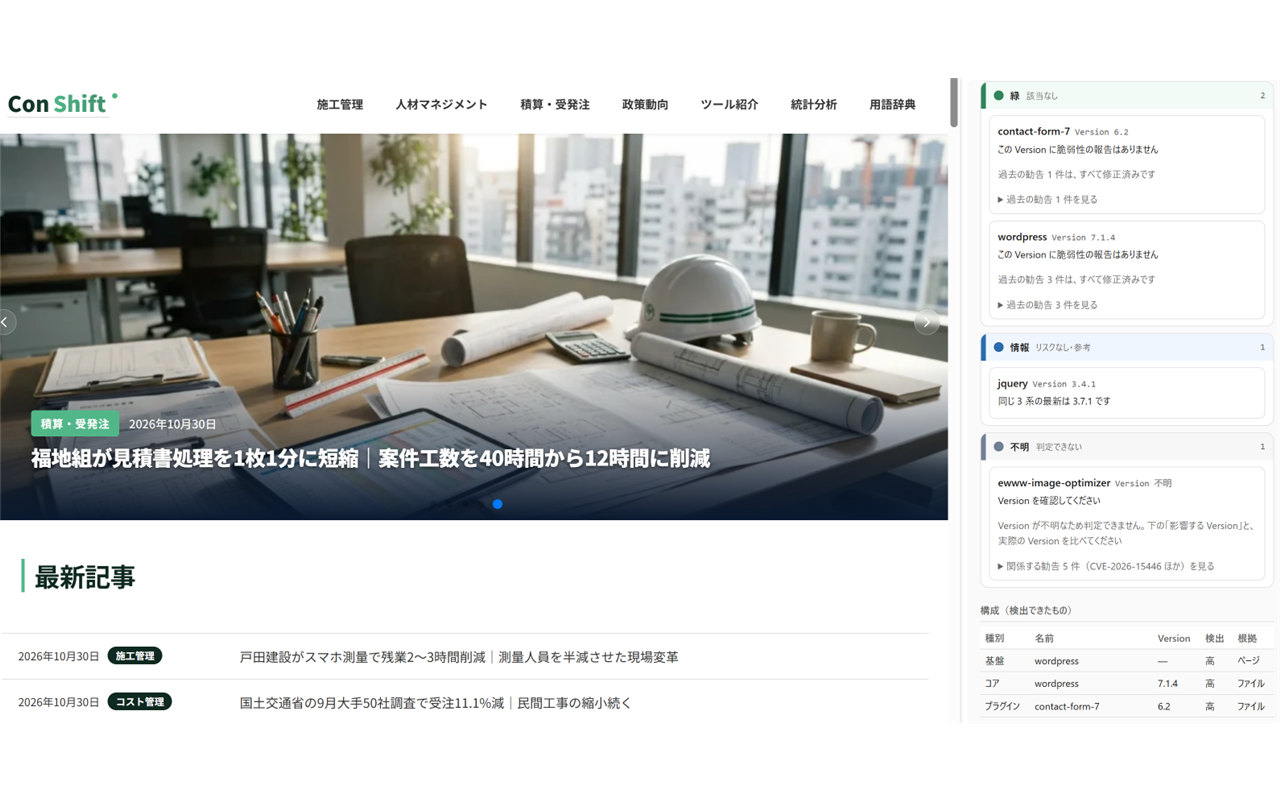
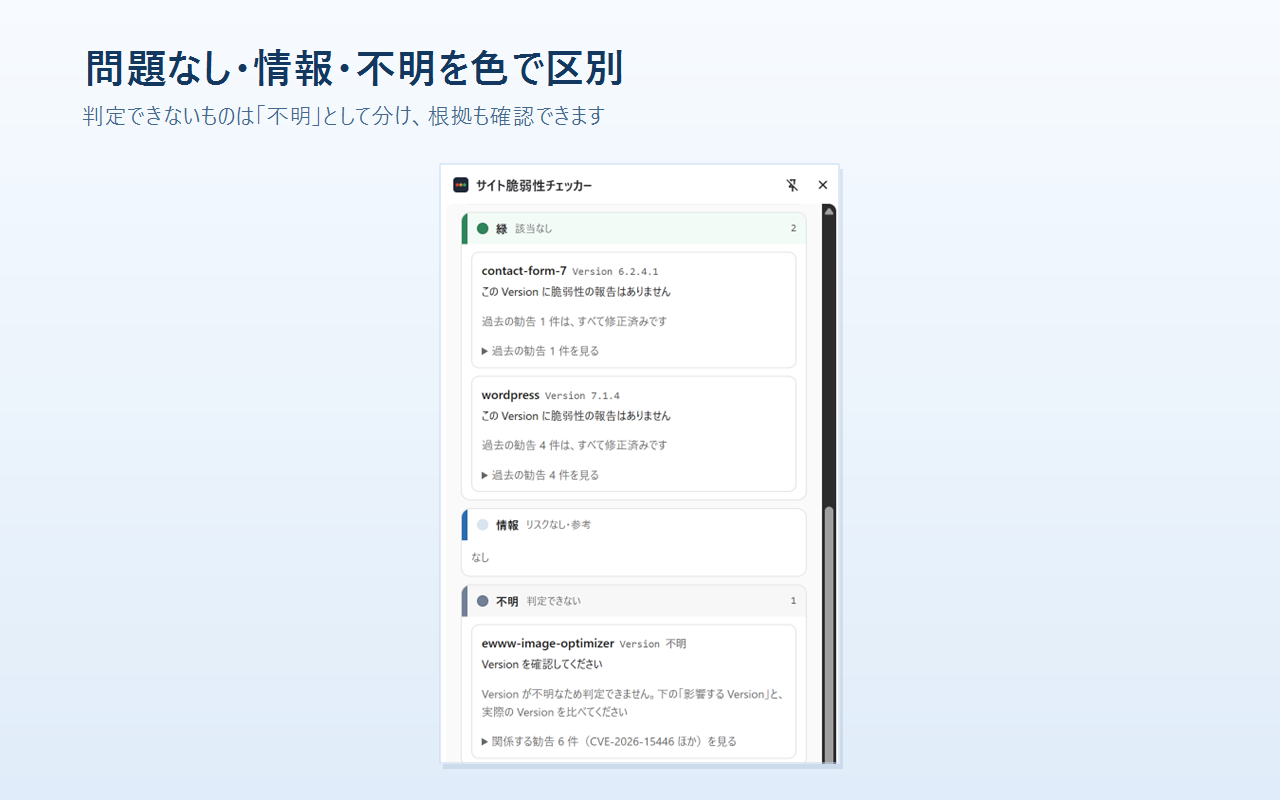
docs: ストア関連のスクリーンショットと説明を更新
- README.md: `advisories.json` と `privacy.html` に関する説明を追加
- listing.md: スクリーンショットの内容を詳細化し、4 枚に増加
- SUBMIT.md: スクリーンショットのファイルパスを更新し、提出手順を明確化
- スクリーンショットの画像を新しい UI に合わせて再生成

diff --git a/store/README.md b/store/README.md
@@ -12,39 +12,56 @@ store/
   source/
     hero-1296x816.jpg   ← プロモ画像の元デザイン（1296×816。ここから 440×280 を作る）
   screenshots/
-    01-red.png                      元画像（1592×797）
+    01-red.png                      旧 UI の素材（1592×797）※使わない
+    02-green-info-gray.png          旧 UI の素材（1590×801）※使わない
+    03-site-health.png              素材（1452×827・サイトヘルス画面）→ 04 の元
+    10-permission-prompt-raw.png    素材（466×225・許可ダイアログ）※ストアでは使わない
+    11-result-red-raw.png           素材（423×432・判定結果 赤）→ 01 の元
+    12-result-green-gray-raw.png    素材（422×633・緑/情報/不明）→ 02 の元
+    13-composition-raw.png          素材（396×405・構成と Version/精度）→ 03 の元
     01-red-1280x800.png             ← ストア提出用（1280×800）
-    02-green-info-gray.png          元画像（1590×801）
     02-green-info-gray-1280x800.png ← ストア提出用（1280×800）
-    03-site-health.png              元画像（1452×827）
-    03-site-health-1280x800.png     ← ストア提出用（1280×800）
+    03-composition-1280x800.png     ← ストア提出用（1280×800）
+    04-sitehealth-1280x800.png      ← ストア提出用（1280×800）
 ```
 
-## スクリーンショット（3 枚）
+## スクリーンショット（4 枚）
 
 | # | 画像 | 内容 | 状態 |
 | --- | --- | --- | --- |
-| 1 | ![赤・黄](screenshots/01-red-1280x800.png) | 赤・黄（PHP 8.1.27 → 赤、黄は 0 件） | ✅ 提出可 |
-| 2 | ![緑・情報・不明](screenshots/02-green-info-gray-1280x800.png) | 緑（該当なし 2 件）・情報（jQuery）・不明（Version 不明のプラグイン） | ✅ 提出可（現在の UI で撮り直し済み） |
-| 3 | ![サイトヘルス](screenshots/03-site-health-1280x800.png) | サイトヘルスの「情報」タブ＋構成表 | ⚠ 判定結果（5 色）が写っていない。パネルを上にスクロールして撮る |
+| 1 | ![赤](screenshots/01-red-1280x800.png) | 判定結果の赤（php 8.1.1・サポート終了・攻撃実績あり） | ✅ 提出可（1.0.1 の UI） |
+| 2 | ![緑・情報・不明](screenshots/02-green-info-gray-1280x800.png) | 緑（該当なし）・情報・不明（Version 不明） | ✅ 提出可（1.0.1 の UI） |
+| 3 | ![構成](screenshots/03-composition-1280x800.png) | 構成表（Version・精度・根拠） | ✅ 提出可（1.0.1 の UI） |
+| 4 | ![サイトヘルス](screenshots/04-sitehealth-1280x800.png) | サイトヘルス「情報」タブ（**管理している WordPress のみ**） | ✅ 提出可（1.0.1 の UI） |
 
-- **サイズ**: 1280×800 または 640×400（この 2 つ以外は受け付けられません）。
-  元画像は仕様外だったため、**1280×800 に収まるよう縮小＋白余白で中央配置**した `*-1280x800.png` を作成済み（拡大はしていません）
-- **形式**: PNG（24-bit、アルファ無し）または JPEG。**1 枚目がストア一覧のサムネイル**になります
-- **被写体**: 自分のサイトか `example.com` 系の検証用サイト。**第三者の実サイト名は写さない**
-  （`02` は「Con Shift」のページ、`03` は WordPress の管理画面が写っています。**自分のサイトであること**を確認してください）
-- 新しい画像を入れたら、同じ手順で `*-1280x800.png` を作り直してください:
+- **サイズ**: 1280×800 または 640×400（この 2 つ以外は受け付けられません）。最大 5 枚・**1 枚目が一覧のサムネイル**
+- **形式**: PNG（24-bit、アルファ無し）または JPEG
+- **作り方**: 素材（`*-raw.png`）を `store/screenshots/` に置いて、スライド化はスクリプトに任せます
+
   ```powershell
-  Add-Type -AssemblyName System.Drawing
-  $img = [System.Drawing.Image]::FromFile("store\screenshots\01-red.png")
-  $scale = [Math]::Min(1280 / $img.Width, 800 / $img.Height)
-  $w = [int][Math]::Round($img.Width * $scale); $h = [int][Math]::Round($img.Height * $scale)
-  $bmp = New-Object System.Drawing.Bitmap 1280, 800
-  $g = [System.Drawing.Graphics]::FromImage($bmp)
-  $g.Clear([System.Drawing.Color]::White)
-  $g.DrawImage($img, [int]((1280 - $w) / 2), [int]((800 - $h) / 2), $w, $h)
-  $bmp.Save("store\screenshots\01-red-1280x800.png", [System.Drawing.Imaging.ImageFormat]::Png)
+  pwsh -File tools/make_store_screenshots.ps1
   ```
+
+  「淡いブルーの背景＋見出し＋パネル」の **1280×800 スライド**を作ります。パネルは縦横比を保って
+  **最大 1.6 倍**まで拡大（それ以上は文字がぼやける）。見出しの文言はスクリプト内の `$slides` で変えられます
+- **素材の対応**
+
+  | 出力 | 素材 | 中身 |
+  | --- | --- | --- |
+  | `01-red-1280x800.png` | `11-result-red-raw.png`（423×432） | 判定結果・赤 |
+  | `02-green-info-gray-1280x800.png` | `12-result-green-gray-raw.png`（422×633） | 判定結果・緑/情報/不明 |
+  | `03-composition-1280x800.png` | `13-composition-raw.png`（396×405） | 構成（Version・精度・根拠） |
+  | `04-sitehealth-1280x800.png` | `03-site-health.png` の左 1020px（1452×827） | サイトヘルス「情報」タブ |
+
+- **被写体**: 自分のサイト（`logishift.net`）で撮ったもの。**第三者の実サイトは写さない**
+- **04 の文言**: サイトヘルスの読み取りは **自分が管理する WordPress でしか使えない**（第三者のサイトでは
+  管理画面を開けないため不可）。「自動入力」ではなく「**管理者なら構成・Version を取得できる**」と書く
+- **`10-permission-prompt-raw.png` は使わない**（`logishift.net` への追加許可を求めるダイアログ。動作としては
+  正常だが、ストアでは「なぜそのドメインへの許可を求めるのか」と質問されやすい）
+- **旧 UI なので使わない素材**（撮影時点では最新ビルド。その後の変更で表示が変わった）
+  - `01-red.png`（10/31 13:05 撮影）: バージョン入力が**開いた状態**で、ラベルも「バージョンを入力（任意）」。
+    現行は `<details>` で既定は閉、ラベルは「バージョンを入力（任意・開発者向け）」（`cbddb28` 10/31 16:11）
+  - `02-green-info-gray.png`（10/31 14:52 撮影）: 構成表の列が **`検出`**。現行は **`精度`**（`673a78e` 11/01）
 
 
 ## プロモ画像・アイコン（作り直すとき）
@@ -73,15 +90,15 @@ pwsh -File tools/make_promo_from_source.ps1
 2. 対象のページを開く → ツールバーのアイコン → サイドパネルを開く
 3. 赤を出したい場合は、**実際に古い PHP／古いプラグインを使っている検証環境**（Local など）で撮る。
    手入力の欄は既定で畳んであるので、**開いた状態を写さない**（写すなら「開発者向けの機能」として説明できる形で）
-4. **ウィンドウ全体**を撮る（`Win + Shift + S`）。サイドパネルだけを撮って拡大すると粗くなるため、全体を撮って余白を整える
-5. 画像編集で 1280×800（または 640×400）に整える。**拡大はしない**（ぼやけます）。余白を足すのは可
-6. `store/screenshots/01-red.png` などに保存する
+4. サイドパネルの**パネル部分だけ**を切り抜く（`Win + Shift + S` の矩形選択）
+5. `store/screenshots/NN-xxx-raw.png` に保存 → `pwsh -File tools/make_store_screenshots.ps1`
+   （スライド化はスクリプトが行う。素材が小さいと拡大でぼやけるので、**幅 400px 以上**で撮る）
 
 ## 提出先（Chrome ウェブストア管理画面）
 
 | 項目 | 場所 | 使うファイル・値 |
 | --- | --- | --- |
-| スクリーンショット | 「ストア掲載情報」→ スクリーンショット | `store/screenshots/01〜03-1280x800.png`（1〜5 枚） |
+| スクリーンショット | 「ストア掲載情報」→ スクリーンショット | `store/screenshots/01〜04-1280x800.png`（4 枚・最大 5 枚） |
 | ストアアイコン | 同上（128×128） | `store/icon-128x128.png` |
 | 小さいプロモ画像 | 同上（440×280） | `store/promo-440x280.png`（一覧・カテゴリ枠で使われる） |
 | マーキー画像（任意） | 同上（1400×560） | 未作成（横長で別途デザインが必要） |

diff --git a/store/SUBMIT.md b/store/SUBMIT.md
@@ -48,7 +48,7 @@ Compress-Archive -Path "$stage\*" -DestinationPath svc-1.0.0.zip -Force
 | カテゴリ | 開発者ツール |
 | 言語 | 日本語 |
 | ストアアイコン（128×128） | `store/icon-128x128.png` |
-| スクリーンショット（1〜5 枚） | `store/screenshots/01-red-1280x800.png` ほか 2 枚 |
+| スクリーンショット（1〜5 枚） | `store/screenshots/01〜04-1280x800.png`（4 枚・1 枚目がサムネイル） |
 | 小さいプロモ画像（440×280） | `store/promo-440x280.png` |
 | マーキー画像（1400×560・任意） | 未作成（横長で別途デザインが必要） |
 | ホームページ URL（任意） | `https://github.com/AkiraMatsumoto-github/site-vuln-checker` |
@@ -170,3 +170,60 @@ WordPress or Automattic.
 | 問い合わせ | GitHub Issues に **3 営業日以内**の初回応答 |
 | 誤検知の報告 | 索引の元データ（NVD / OSV）を確認し、必要なら取り込み側で除外 |
 | プライバシーポリシー | 変更したら `docs/privacy.html` を更新（Pages へは publish-index が配信） |
+
+### 既知の表示：「セーフ ブラウジング保護強化機能で信頼されていません」
+
+`chrome://extensions` に「この拡張機能は、セーフ ブラウジング保護強化機能で信頼されていません」と出ることがある。
+**壊れている・危険という意味ではなく**、Google の信頼リストに入っていないという表示。
+
+| 状況 | 消し方 |
+| --- | --- |
+| デベロッパーモードで読み込んだ（unpacked） | **必ず出る**。ストア版に切り替えるか、設定 →「プライバシーとセキュリティ」→「セキュリティ」→ **標準保護機能**に下げる |
+| ストアからインストール（1.0.1 は 2026-11-03 公開） | 開発者側で消す操作はない。Google が基準（ストア掲載・開発者の検証・違反履歴なし・利用実績など）で判定し、満たすと外れる。**時期は非公開** |
+
+- 効くのは「違反ゼロのまま更新を続ける」「プライバシー申告と実装を一致させる」「権限を増やさない」の積み上げだけ。
+  マニフェストやコードの変更で消せるものではない
+- 個別の解除申請フォームはない（Chrome ウェブストアの One Stop Support で相談は可能）
+- 警告が出るのは **保護強化機能を ON にしている人だけ**（標準保護機能のユーザーには出ない）
+
+---
+
+## 9. 更新（1.0.1）
+
+公開済み（1.0.0）から更新するときの手順。**パッケージの差し替え＋審査依頼**が必要。
+
+### 1) ZIP を作る
+
+```powershell
+$stage = Join-Path $env:TEMP "svc-stage-101"
+Remove-Item $stage -Recurse -Force -ErrorAction SilentlyContinue
+New-Item -ItemType Directory -Path $stage | Out-Null
+Copy-Item extension\* $stage -Recurse
+Remove-Item "$stage\tests", "$stage\README.md" -Recurse -Force
+Compress-Archive -Path "$stage\*" -DestinationPath svc-1.0.1.zip -Force
+```
+
+- [ ] `extension/manifest.json` の `version` が **1.0.1**
+- [ ] ZIP の直下に `manifest.json`／`tests` と `README.md` を含まない
+- [ ] 約 45 KB・14 ファイル（JS 9・CSS 1・HTML 1・アイコン 4）
+
+### 2) アップロードして審査依頼
+
+- [ ] 管理画面 → アイテム → **「パッケージ」タブ** → 新しい ZIP をアップロード
+- [ ] 「What's new」に下の文案を貼る
+- [ ] **「審査のために送信」**
+- [ ] 掲載情報（プロモ画像など）も同時に変えるなら、このタイミングで保存しておく
+
+### 2-2) ストア掲載情報を差し替える（スクリーンショット）
+
+- [ ] 「ストア掲載情報」→ スクリーンショットに `store/screenshots/01〜04-1280x800.png` の **4 枚**を順番にアップ（1.0.1 の UI。`tools/make_store_screenshots.ps1` で再生成できる）
+- [ ] 既存の 3 枚（旧 UI・`検出` 列）は**削除**する
+- [ ] 小さいプロモ画像（440×280）を `store/promo-440x280.png` に差し替え
+- [ ] 保存 → パッケージと同時に審査へ（掲載情報だけの変更でも審査の対象になる）
+
+### 3) What's new（文案）
+
+```
+・構成表の「検出」を「精度」に変え、Version が正しい確かさ（高 / 中 / 低）を示すようにしました。
+・アプリの説明文を分かりやすい表現に調整しました。
+```

diff --git a/store/listing.md b/store/listing.md
@@ -117,8 +117,9 @@
 
 | 順 | ファイル | 内容 |
 | --- | --- | --- |
-| 1 | `store/screenshots/01-red-1280x800.png` | 赤・黄の判定 |
-| 2 | `store/screenshots/02-green-info-gray-1280x800.png` | 緑・情報・不明 |
-| 3 | `store/screenshots/03-site-health-1280x800.png` | サイトヘルスから読み取った構成 |
+| 1 | `store/screenshots/01-red-1280x800.png` | 赤の判定（危険度と根拠） |
+| 2 | `store/screenshots/02-green-info-gray-1280x800.png` | 緑・情報・不明の色分け |
+| 3 | `store/screenshots/03-composition-1280x800.png` | 構成と Version・精度・根拠 |
+| 4 | `store/screenshots/04-sitehealth-1280x800.png` | サイトヘルスから構成・Version を取得（WordPress の管理者のみ） |
 
 （サイズは 1280×800。1 枚目が一覧のサムネイルになります）

diff --git a/README.md b/README.md
@@ -305,6 +305,10 @@ uv run svc-enrich --index out/advisories.json
 https://akiramatsumoto-github.github.io/site-vuln-checker/advisories.json
 ```
 
+> Pages には `advisories.json` と `privacy.html` の 2 ファイルだけを置いています。そのため
+> `…/site-vuln-checker/`（ルート）は `index.html` が無く **404** になりますが、**仕様どおり**です
+> （拡張が読むのは上の `advisories.json` のみ、ストア審査で使うのは `privacy.html` のみ）。
+
 ### 3. 拡張を読み込む
 
 1. `chrome://extensions` を開く
